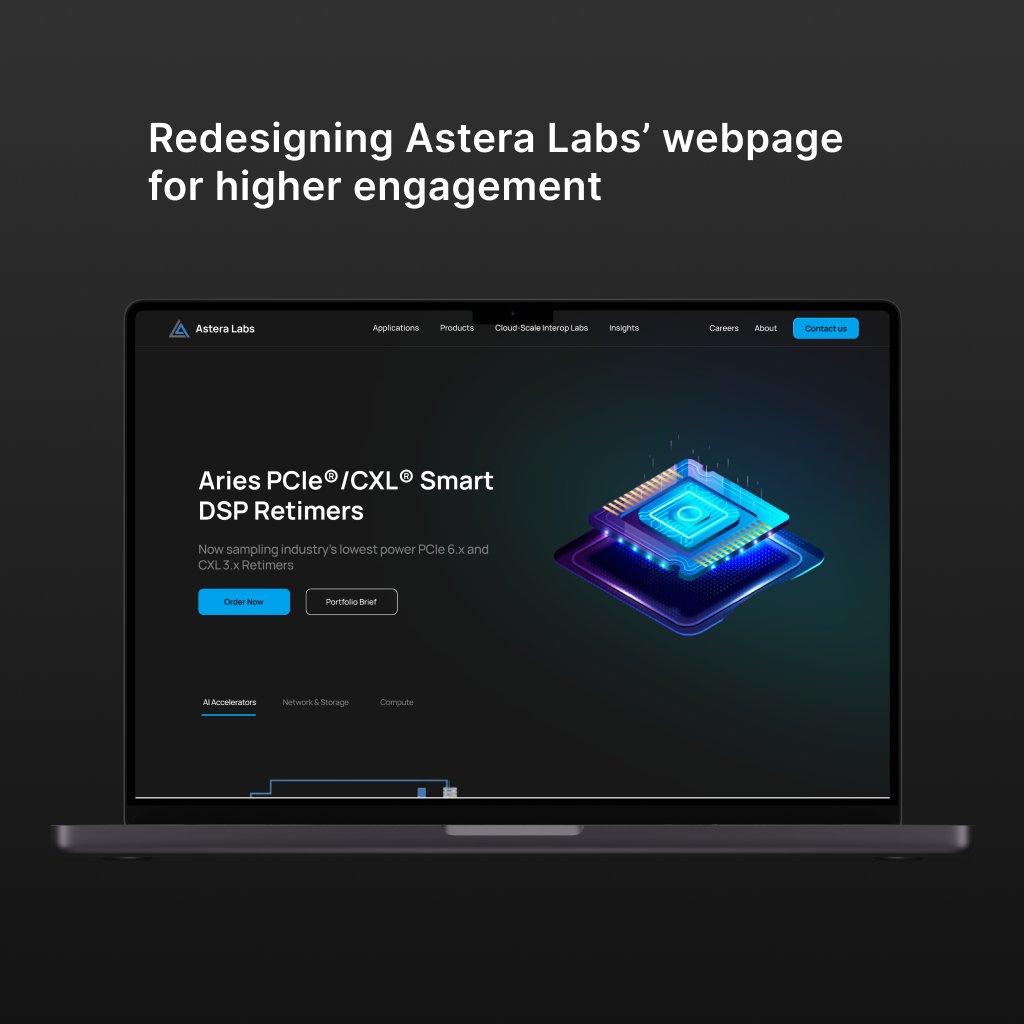
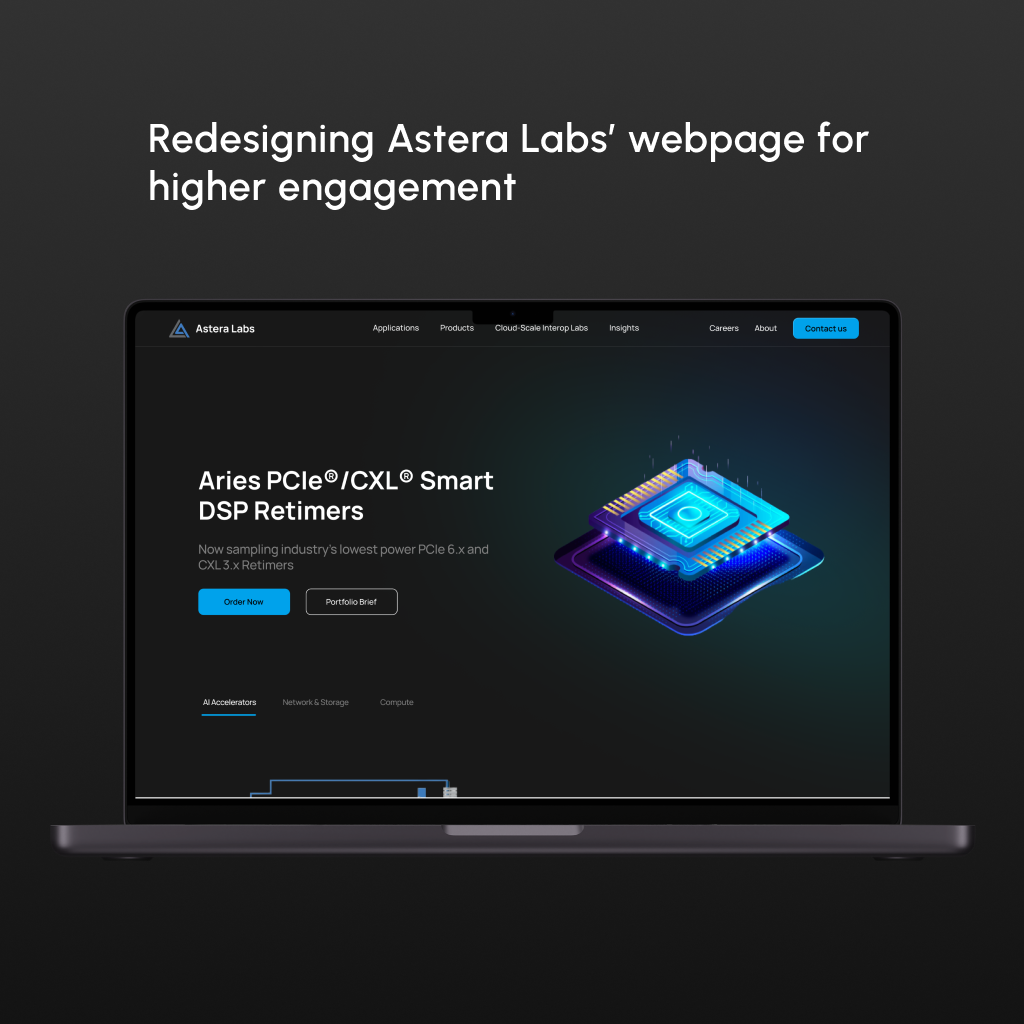
main page font updated

Changed region(s): [[0.125, 0.125, 0.8438, 0.2188]]

diff --git a/index.html b/index.html
@@ -36,7 +36,7 @@
         <div class="work">
             <div class="intro">
                 <div class="grid-item1 one">
-                    <h1>About me</h1>
+                    <h1>About me 👋</h1>
                 </div>
 
                 <div class="grid-item1 two">

diff --git a/assets/astera.css b/assets/astera.css
@@ -11,7 +11,7 @@
 
 body
 {
-    font-family: 'Inter', sans-serif;
+    font-family: "Urbanist", sans-serif;
     font-weight: 300;
     font-size: var(--body-copy);
     line-height: var(--body-copy-line-height);

diff --git a/assets/code.css b/assets/code.css
@@ -8,7 +8,7 @@
 
 body
 {
-    font-family: "Inter", sans-serif;
+    font-family: "Urbanist", sans-serif;
     font-weight: 300;
     font-size: var(--body-copy);
     line-height: var(--body-copy-line-height);

diff --git a/assets/style.css b/assets/style.css
@@ -18,7 +18,7 @@ body
     color: #FFFFFF;
     width: 90%;
     margin: auto;
-    letter-spacing: 1px;
+    letter-spacing: 0.5px;
 }
 
 h1 
